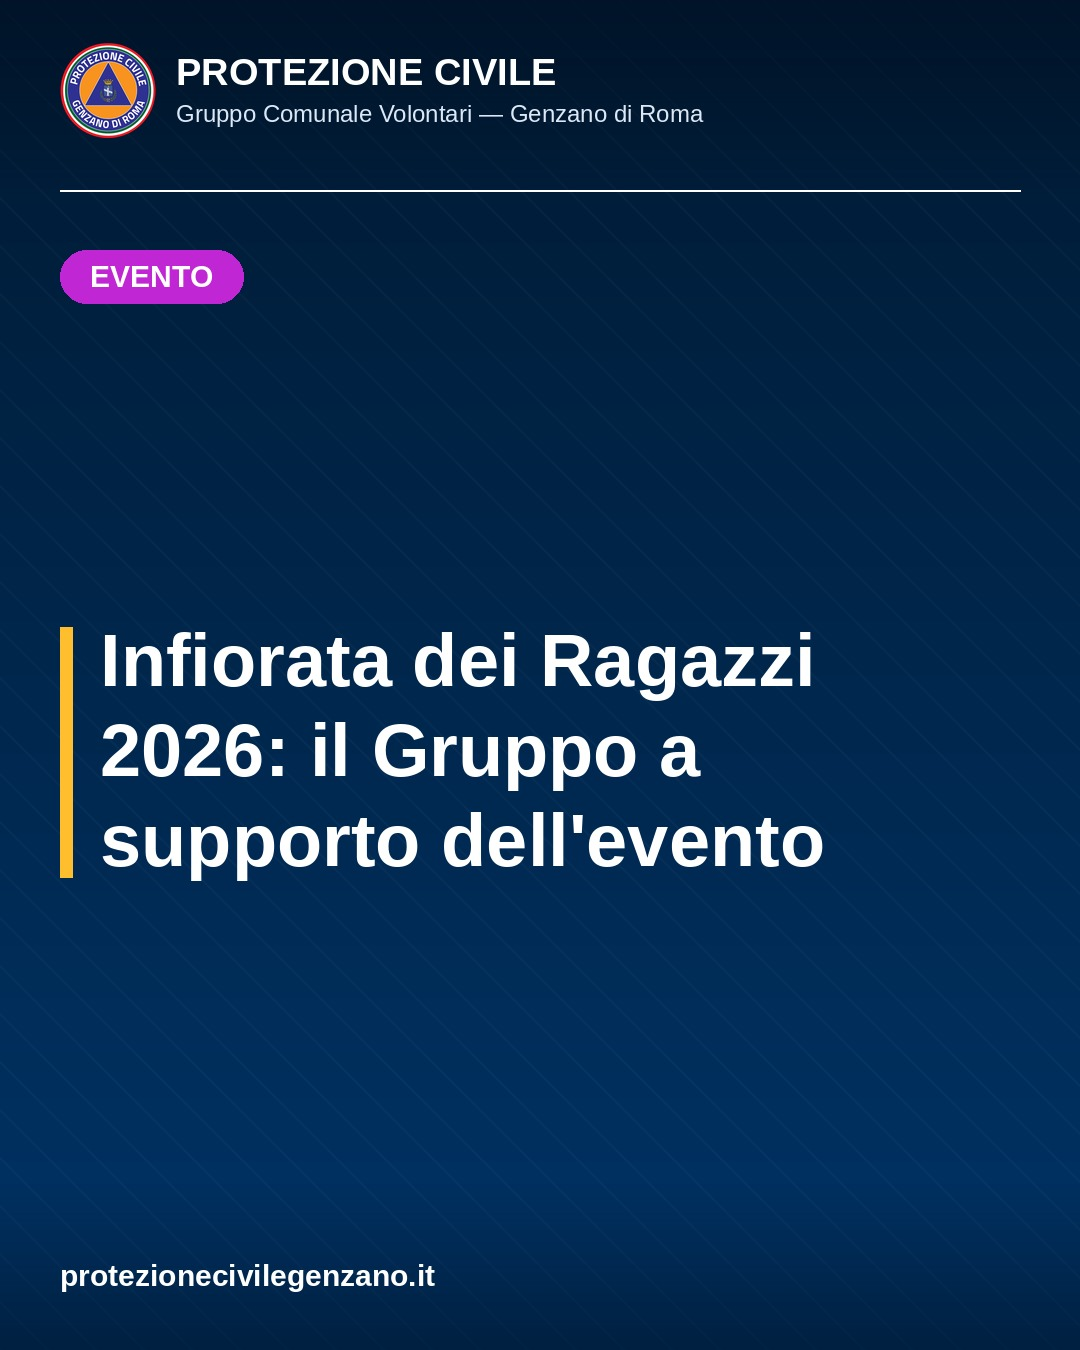
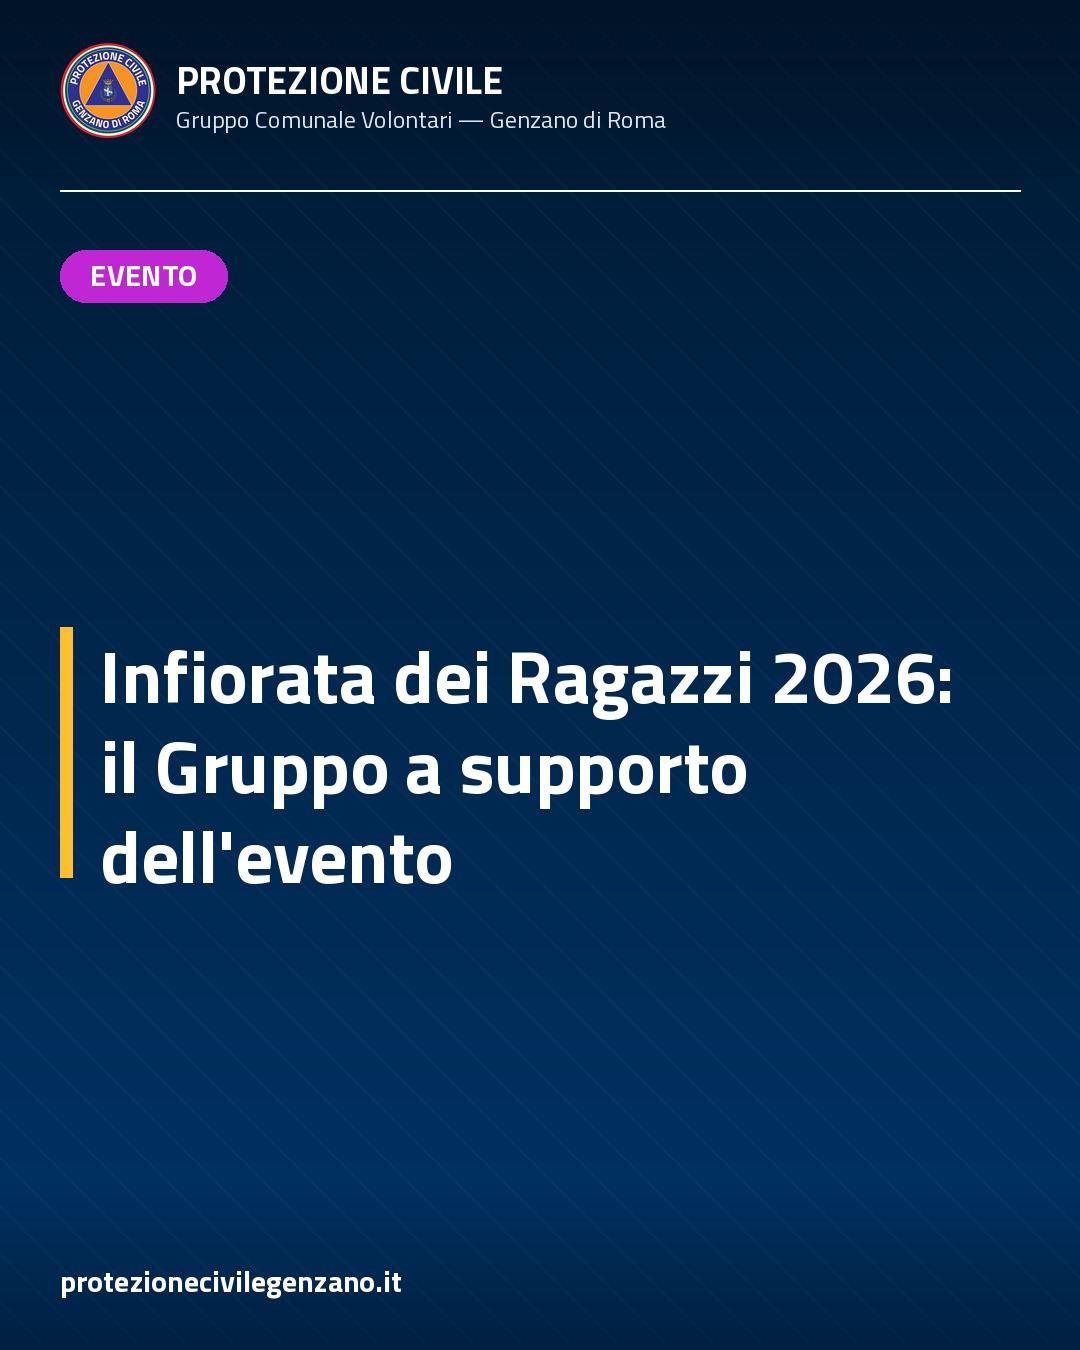
Social: font ufficiale Titillium Web + slide testo (citazione + punti chiave)
- Tipografia allineata al design system .italia: il generatore usa Titillium Web
  (già nel repo, static/vendor/bootstrap-italia) al posto di Liberation Sans.
- Due nuove slide opt-in dal frontmatter dell'articolo:
  social_citazione: "..."  -> slide citazione
  social_punti: [ ... ]     -> slide "In sintesi" con punti chiave
  Testo preso dall'articolo, mai inventato. Ordine carosello: titolo ->
  citazione -> punti -> foto (max 10 slide).
- parse_frontmatter esteso per le liste YAML semplici (social_punti).
- Esempio applicato all'articolo Infiorata dei Ragazzi.

Re-batch dei 125 articoli col nuovo font: da fare dopo conferma.

https://claude.ai/code/session_015ZoBLX3ESudmm6BLH5cWi1

diff --git a/scripts/genera-immagini-social.py b/scripts/genera-immagini-social.py
@@ -49,6 +49,8 @@ IMAGES_DIR = ROOT / "static" / "images"
 BOZZE_DIR = ROOT / "social-bozze"  # Output: stessa cartella dei testi (instagram.txt ecc.)
 LOGO_PATH = IMAGES_DIR / "logo-pc-genzano.png"
 SITE_BASE = "https://www.protezionecivilegenzano.it"
+# Font ufficiale del design system .italia (Titillium Web), già nel repo.
+TITILLIUM_DIR = ROOT / "static" / "vendor" / "bootstrap-italia" / "fonts" / "Titillium_Web"
 
 
 def slug_to_path(slug: str) -> Path:
@@ -87,6 +89,13 @@ TEXT_DARK = (23, 50, 77)      # #17324D
 
 
 def find_font(weight: str = "Bold") -> Path:
+    """Restituisce il font ufficiale .italia (Titillium Web) dal repo; in mancanza,
+    ripiega su Liberation Sans di sistema. Pillow legge solo .ttf/.otf (non .woff)."""
+    titillium = {"Bold": "700", "Semibold": "600", "Regular": "regular"}.get(weight)
+    if titillium:
+        p = TITILLIUM_DIR / f"titillium-web-v10-latin-ext_latin-{titillium}.ttf"
+        if p.is_file():
+            return p
     candidates = [
         f"/usr/share/fonts/truetype/liberation/LiberationSans-{weight}.ttf",
         f"/usr/share/fonts/liberation/LiberationSans-{weight}.ttf",
@@ -97,7 +106,7 @@ def find_font(weight: str = "Bold") -> Path:
         if Path(c).is_file():
             return Path(c)
     raise RuntimeError(
-        "Font Liberation Sans non trovato. Su Ubuntu: sudo apt install fonts-liberation"
+        "Font non trovato: né Titillium Web nel repo né Liberation Sans di sistema."
     )
 
 
@@ -109,17 +118,32 @@ def parse_frontmatter(testo: str) -> tuple[dict, str]:
         return {}, testo
     raw_fm = testo[4:fine].strip()
     body = testo[fine + 4:].lstrip("\n")
+
+    def _strip_q(v: str) -> str:
+        v = v.strip()
+        if len(v) >= 2 and v[0] == v[-1] and v[0] in ("\"", "'"):
+            v = v[1:-1]
+        return v
+
     fm = {}
+    chiave_lista = None  # ultima chiave a valore vuoto (possibile lista YAML)
     for riga in raw_fm.split("\n"):
         if not riga.strip() or riga.lstrip().startswith("#"):
             continue
+        # Voce di lista semplice "  - valore" sotto una chiave a valore vuoto.
+        m_item = re.match(r"^\s+-\s+(.+)$", riga)
+        if chiave_lista is not None and m_item:
+            fm[chiave_lista].append(_strip_q(m_item.group(1)))
+            continue
         m = re.match(r"^([a-zA-Z_][a-zA-Z0-9_]*):\s*(.*)$", riga)
         if m:
-            chiave = m.group(1)
-            valore = m.group(2).strip()
-            if valore.startswith('"') and valore.endswith('"'):
-                valore = valore[1:-1]
-            fm[chiave] = valore
+            chiave, valore = m.group(1), m.group(2).strip()
+            if valore == "":
+                fm[chiave] = []          # possibile inizio di lista
+                chiave_lista = chiave
+            else:
+                fm[chiave] = _strip_q(valore)
+                chiave_lista = None
     return fm, body
 
 
@@ -255,14 +279,7 @@ def crea_slide_titolo(titolo: str, badge: str, out_path: Path,
                       W: int = 1080, H: int = 1350) -> Path:
     """Slide 1 del carosello / post singolo: card-titolo verticale nativa 4:5.
     Costruita a misura: riempie perfettamente, senza ritagli né bande."""
-    base = gradiente_verticale(W, H, PRIMARY_DARK, PRIMARY).convert("RGBA")
-    # Trama diagonale appena percettibile, per profondità.
-    trama = Image.new("RGBA", (W, H), (0, 0, 0, 0))
-    dt = ImageDraw.Draw(trama)
-    for x in range(-H, W, 48):
-        dt.line([(x, 0), (x + H, H)], fill=(255, 255, 255, 6), width=2)
-    base.alpha_composite(trama)
-
+    base = _sfondo_titolo(W, H)
     _barra_brand(base, W)
     d = ImageDraw.Draw(base)
     d.line([(60, 190), (W - 60, 190)], fill=(255, 255, 255, 55), width=2)
@@ -321,6 +338,71 @@ def crea_slide_foto(foto_path: Path, out_path: Path,
         (60, H - 92), "protezionecivilegenzano.it",
         font=ImageFont.truetype(str(find_font("Bold")), 30), fill=WHITE)
 
+    out_path.parent.mkdir(parents=True, exist_ok=True)
+    base.convert("RGB").save(out_path, "JPEG", quality=92, optimize=True, progressive=True)
+    return out_path
+
+
+def _sfondo_titolo(W: int, H: int) -> Image.Image:
+    """Sfondo blu istituzionale a gradiente + trama diagonale leggera (RGBA)."""
+    base = gradiente_verticale(W, H, PRIMARY_DARK, PRIMARY).convert("RGBA")
+    trama = Image.new("RGBA", (W, H), (0, 0, 0, 0))
+    dt = ImageDraw.Draw(trama)
+    for x in range(-H, W, 48):
+        dt.line([(x, 0), (x + H, H)], fill=(255, 255, 255, 6), width=2)
+    base.alpha_composite(trama)
+    return base
+
+
+def crea_slide_citazione(testo: str, out_path: Path,
+                         W: int = 1080, H: int = 1350) -> Path:
+    """Slide 'citazione': una frase forte dell'articolo, grande, tra virgolette.
+    Testo preso dal frontmatter (social_citazione), mai inventato."""
+    base = _sfondo_titolo(W, H)
+    _barra_brand(base, W)
+    d = ImageDraw.Draw(base)
+    # Virgoletta decorativa grande in accento
+    d.text((66, 232), "“",
+           font=ImageFont.truetype(str(find_font("Bold")), 180), fill=ACCENT)
+    ft = ImageFont.truetype(str(find_font("Semibold")), 60)
+    righe = wrap_testo(d, testo, ft, W - 200)[:8]
+    line_h = 80
+    blocco_h = len(righe) * line_h
+    area_top, area_bot = 440, H - 200
+    ty = area_top + max(0, (area_bot - area_top - blocco_h) // 2)
+    for r in righe:
+        d.text((100, ty), r, font=ft, fill=WHITE)
+        ty += line_h
+    base.alpha_composite(scrim(W, 170, dall_alto=False, alpha_max=150), (0, H - 170))
+    d.text((60, H - 92), "protezionecivilegenzano.it",
+           font=ImageFont.truetype(str(find_font("Bold")), 30), fill=WHITE)
+    out_path.parent.mkdir(parents=True, exist_ok=True)
+    base.convert("RGB").save(out_path, "JPEG", quality=92, optimize=True, progressive=True)
+    return out_path
+
+
+def crea_slide_punti(punti: list, out_path: Path,
+                     W: int = 1080, H: int = 1350) -> Path:
+    """Slide 'punti chiave': elenco di 2-5 punti brevi dall'articolo (frontmatter
+    social_punti). Marcatore accento + testo, mai inventato."""
+    base = _sfondo_titolo(W, H)
+    _barra_brand(base, W)
+    d = ImageDraw.Draw(base)
+    d.line([(60, 190), (W - 60, 190)], fill=(255, 255, 255, 55), width=2)
+    d.text((60, 238), "IN SINTESI",
+           font=ImageFont.truetype(str(find_font("Bold")), 36), fill=ACCENT)
+    ft = ImageFont.truetype(str(find_font("Semibold")), 46)
+    y = 340
+    for p in punti[:5]:
+        righe = wrap_testo(d, p, ft, W - 230)[:3]
+        d.ellipse([(64, y + 18), (90, y + 44)], fill=ACCENT)
+        for r in righe:
+            d.text((120, y), r, font=ft, fill=WHITE)
+            y += 60
+        y += 30
+    base.alpha_composite(scrim(W, 170, dall_alto=False, alpha_max=150), (0, H - 170))
+    d.text((60, H - 92), "protezionecivilegenzano.it",
+           font=ImageFont.truetype(str(find_font("Bold")), 30), fill=WHITE)
     out_path.parent.mkdir(parents=True, exist_ok=True)
     base.convert("RGB").save(out_path, "JPEG", quality=92, optimize=True, progressive=True)
     return out_path
@@ -522,12 +604,21 @@ def estrai_articolo(path: Path) -> dict | None:
     # Limite Instagram: 10 immagini per carosello
     carousel_unique = carousel_unique[:10]
 
+    citazione = fm.get("social_citazione", "")
+    if not isinstance(citazione, str):
+        citazione = ""
+    punti = fm.get("social_punti") or []
+    if not isinstance(punti, list):
+        punti = []
+
     return {
         "slug": path.stem,
         "title": fm.get("title", ""),
         "description": fm.get("description", ""),
         "badge": fm.get("badge", ""),
         "date": m.group(1),
+        "citazione": citazione.strip(),
+        "punti": [str(p).strip() for p in punti if str(p).strip()],
         "cover": cover_path,
         "carousel": carousel_unique,
     }
@@ -579,28 +670,29 @@ def main() -> int:
             saltati += 1
             continue
 
-        n_foto = len(art["carousel"])
         out_dir = slug_dir(art["slug"])
         story_path = out_dir / "storia.jpg"
 
-        # Nomi a prova di errore (la destinazione è nel nome):
-        #   1 sola immagine -> feed-post.jpg
-        #   2+ immagini     -> feed-carosello-1.jpg, feed-carosello-2.jpg, ...
-        #   storia          -> storia.jpg
-        if n_foto == 1:
-            target = out_dir / "feed-post.jpg"
-            if not args.force and target.exists() and story_path.exists():
-                print(f"  GIÀ PRESENTE (--force per ri-generare): {art['slug']}",
-                      file=sys.stderr)
-                saltati += 1
-                continue
-        else:
-            target_1 = out_dir / "feed-carosello-1.jpg"
-            if not args.force and target_1.exists() and story_path.exists():
-                print(f"  GIÀ PRESENTE carosello (--force per ri-generare): {art['slug']}",
-                      file=sys.stderr)
-                saltati += 1
-                continue
+        # Piano del carosello (ordine): titolo -> citazione -> punti -> foto.
+        # Citazione e punti solo se presenti nel frontmatter (social_citazione /
+        # social_punti). Max 10 slide (limite Instagram).
+        slides = [("titolo", None)]
+        if art.get("citazione"):
+            slides.append(("citazione", art["citazione"]))
+        if art.get("punti"):
+            slides.append(("punti", art["punti"]))
+        for foto in art["carousel"][1:]:
+            slides.append(("foto", foto))
+        slides = slides[:10]
+        n_slide = len(slides)
+
+        # Nomi a prova di errore: 1 sola slide -> feed-post.jpg; 2+ -> feed-carosello-N.jpg
+        primo = out_dir / ("feed-post.jpg" if n_slide == 1 else "feed-carosello-1.jpg")
+        if not args.force and primo.exists() and story_path.exists():
+            print(f"  GIÀ PRESENTE (--force per ri-generare): {art['slug']}",
+                  file=sys.stderr)
+            saltati += 1
+            continue
 
         # --force: pulisci immagini precedenti, sia i nomi nuovi sia quelli
         # vecchi (instagram-post*/instagram-story*, e .webp pre-2 maggio 2026).
@@ -611,16 +703,22 @@ def main() -> int:
                 for old in out_dir.glob(pat):
                     old.unlink()
 
-        try:
-            # Slide 1 = card-titolo nativa; slide 2+ = foto inline intere.
-            if n_foto == 1:
-                crea_slide_titolo(art["title"], art["badge"],
-                                  out_dir / "feed-post.jpg")
+        def _render(kind, data, dest):
+            if kind == "titolo":
+                crea_slide_titolo(art["title"], art["badge"], dest)
+            elif kind == "citazione":
+                crea_slide_citazione(data, dest)
+            elif kind == "punti":
+                crea_slide_punti(data, dest)
             else:
-                crea_slide_titolo(art["title"], art["badge"],
-                                  out_dir / "feed-carosello-1.jpg")
-                for idx, foto in enumerate(art["carousel"][1:], 2):
-                    crea_slide_foto(foto, out_dir / f"feed-carosello-{idx}.jpg")
+                crea_slide_foto(data, dest)
+
+        try:
+            if n_slide == 1:
+                _render(*slides[0], out_dir / "feed-post.jpg")
+            else:
+                for idx, (kind, data) in enumerate(slides, 1):
+                    _render(kind, data, out_dir / f"feed-carosello-{idx}.jpg")
 
             # Story: foto reale (1ª inline) in evidenza se c'è, altrimenti titolo
             hero = art["carousel"][1] if len(art["carousel"]) > 1 else None
@@ -628,9 +726,16 @@ def main() -> int:
                                  story_path, art["badge"], hero)
 
             # README.md della cartella (mappa file -> destinazione)
-            scrivi_readme(out_dir, art, n_foto)
+            scrivi_readme(out_dir, art, n_slide)
 
-            tipo = "singolo" if n_foto == 1 else f"carosello x{n_foto}"
+            extra = []
+            if art.get("citazione"):
+                extra.append("citazione")
+            if art.get("punti"):
+                extra.append("punti")
+            tipo = "singolo" if n_slide == 1 else f"carosello x{n_slide}"
+            if extra:
+                tipo += " +" + "/".join(extra)
             print(f"  ✓ {art['slug']} ({tipo})", file=sys.stderr)
             ok += 1
         except Exception as e:

diff --git a/social-bozze/2026/05/2026-05-22-infiorata-ragazzi-genzano-2026/README.md b/social-bozze/2026/05/2026-05-22-infiorata-ragazzi-genzano-2026/README.md
@@ -11,7 +11,7 @@ Il numero del carosello è l'ordine di caricamento.
 
 | File | Dove si pubblica |
 |---|---|
-| `feed-carosello-1.jpg`, `feed-carosello-2.jpg` | FEED Instagram + Facebook — carosello: caricale **tutte, in ordine** (1080×1350) |
+| `feed-carosello-1.jpg`, `feed-carosello-2.jpg`, `feed-carosello-3.jpg`, `feed-carosello-4.jpg` | FEED Instagram + Facebook — carosello: caricale **tutte, in ordine** (1080×1350) |
 | `storia.jpg` | STORIE Instagram + Facebook — verticale, sparisce dopo 24h (1080×1920) |
 | `instagram.txt` | testo per Instagram |
 | `facebook.txt` | testo per Facebook (anteprima OG dall'URL) |

diff --git a/content/comunicazioni/2026-05-22-infiorata-ragazzi-genzano-2026.md b/content/comunicazioni/2026-05-22-infiorata-ragazzi-genzano-2026.md
@@ -13,6 +13,12 @@ allegati:
   - titolo: "Ordinanza Polizia Locale n. 71 del 19 maggio 2026 — viabilità Infiorata dei Ragazzi"
     url: "/allegati/2026/ordinanza-71-2026-infiorata-ragazzi-viabilita.pdf"
     dimensione: "120 KB"
+social_citazione: "Durante l'Infiorata il Gruppo è presente per l'assistenza alla popolazione, l'informazione e il primo soccorso."
+social_punti:
+  - "30 e 31 maggio 2026, via Bruno Buozzi a Genzano"
+  - "Tema: «Inno al Creato — Cantico delle Creature»"
+  - "Modifiche alla viabilità dal 29 maggio"
+  - "Per ogni emergenza chiama il 112"
 draft: false
 ---
 
